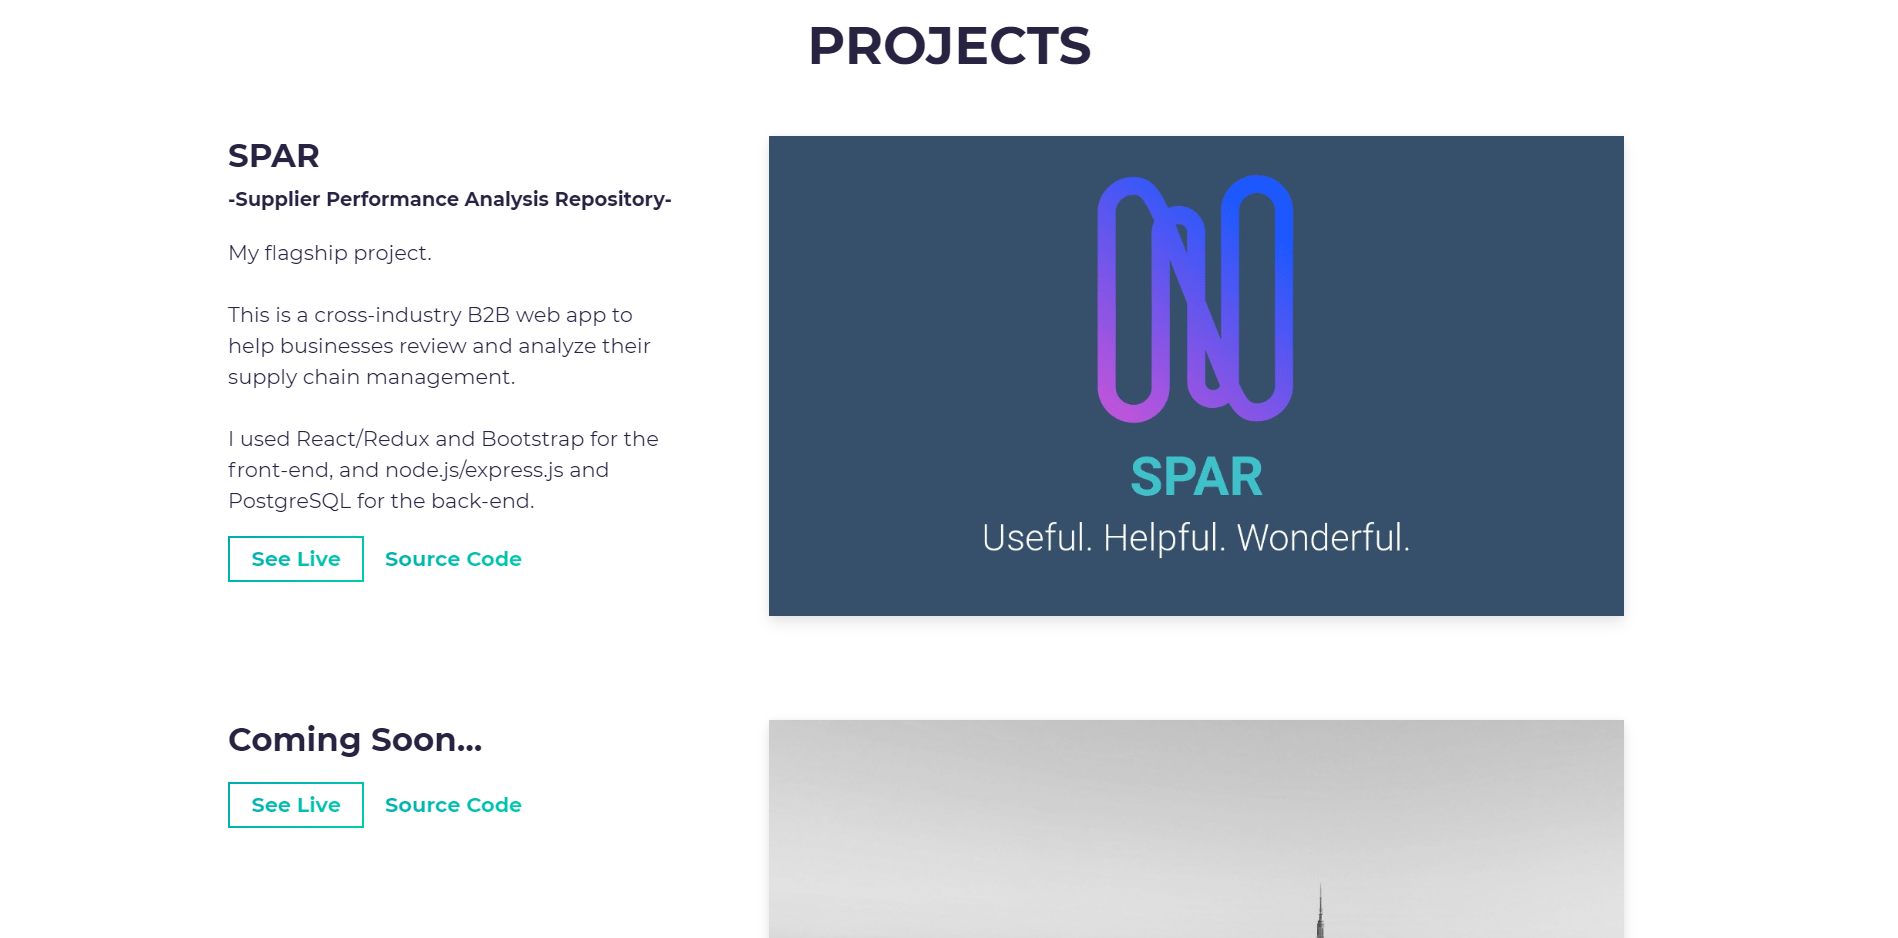
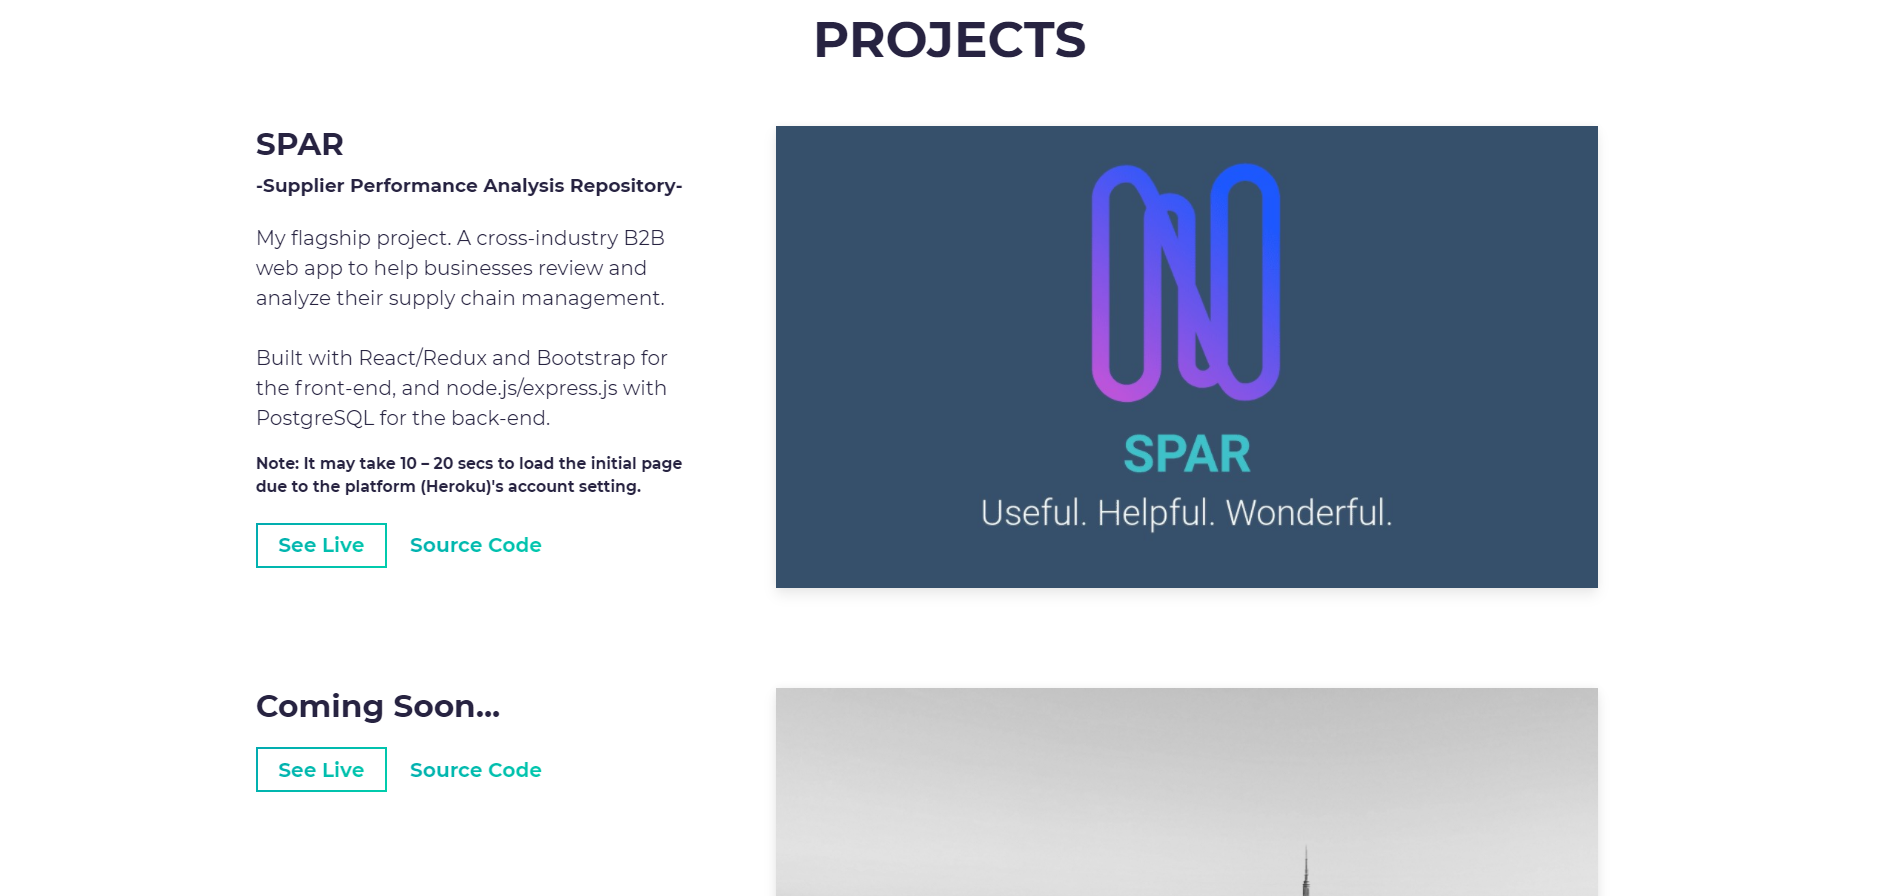
updated template.html & README.md

diff --git a/src/template.html b/src/template.html
@@ -115,9 +115,13 @@
                 <h3 class="project-wrapper__text-title">SPAR <br/><span style="font-size: 0.60em">-Supplier Performance Analysis Repository-</span></h3>
                 <div>
                   <p class="mb-4">
-                    My flagship project.<br/><br/>
-                    This is a cross-industry B2B web app to help businesses review and analyze their supply chain management.<br/><br/>
-                    I used React/Redux and Bootstrap for the front-end, and node.js/express.js and PostgreSQL for the back-end.
+                    My flagship project. A cross-industry B2B web app to help businesses review and analyze their supply chain management.<br/><br/>
+                    Built with React/Redux and Bootstrap for the front-end, and node.js/express.js with PostgreSQL for the back-end.
+                  </p>
+                </div>
+                <div style="margin-bottom: 2em">
+                  <p style="font-weight: bold; font-size: 1.25em">    
+                    Note: It may take 10 – 20 secs to load the initial page due to the platform (Heroku)'s account setting.    
                   </p>
                 </div>
                 <a target="_blank" class="cta-btn cta-btn--hero" href="https://spar-web-app.herokuapp.com/">
@@ -126,7 +130,6 @@
                 <a target="_blank" class="cta-btn text-color-main" href="https://github.com/taka-wtnb/Personal_Project_SPAR">
                   Source Code
                 </a>
-                
               </div>
             </div>
             <div class="col-lg-8 col-sm-12">
@@ -136,13 +139,6 @@
                     <img class="img-fluid" src="./assets/spar_profile.jpg" />
                   </div>
                 </a>
-              </div>
-              <div>
-                <p class="mb-4">
-                  <span style="font-weight: bold; font-size: 0.80em">
-                    Note: It may take 10 – 20 secs to load the initial page due to the platform (Heroku)'s account setting.
-                  </span>
-                </p>
               </div>
             </div>
           </div>
